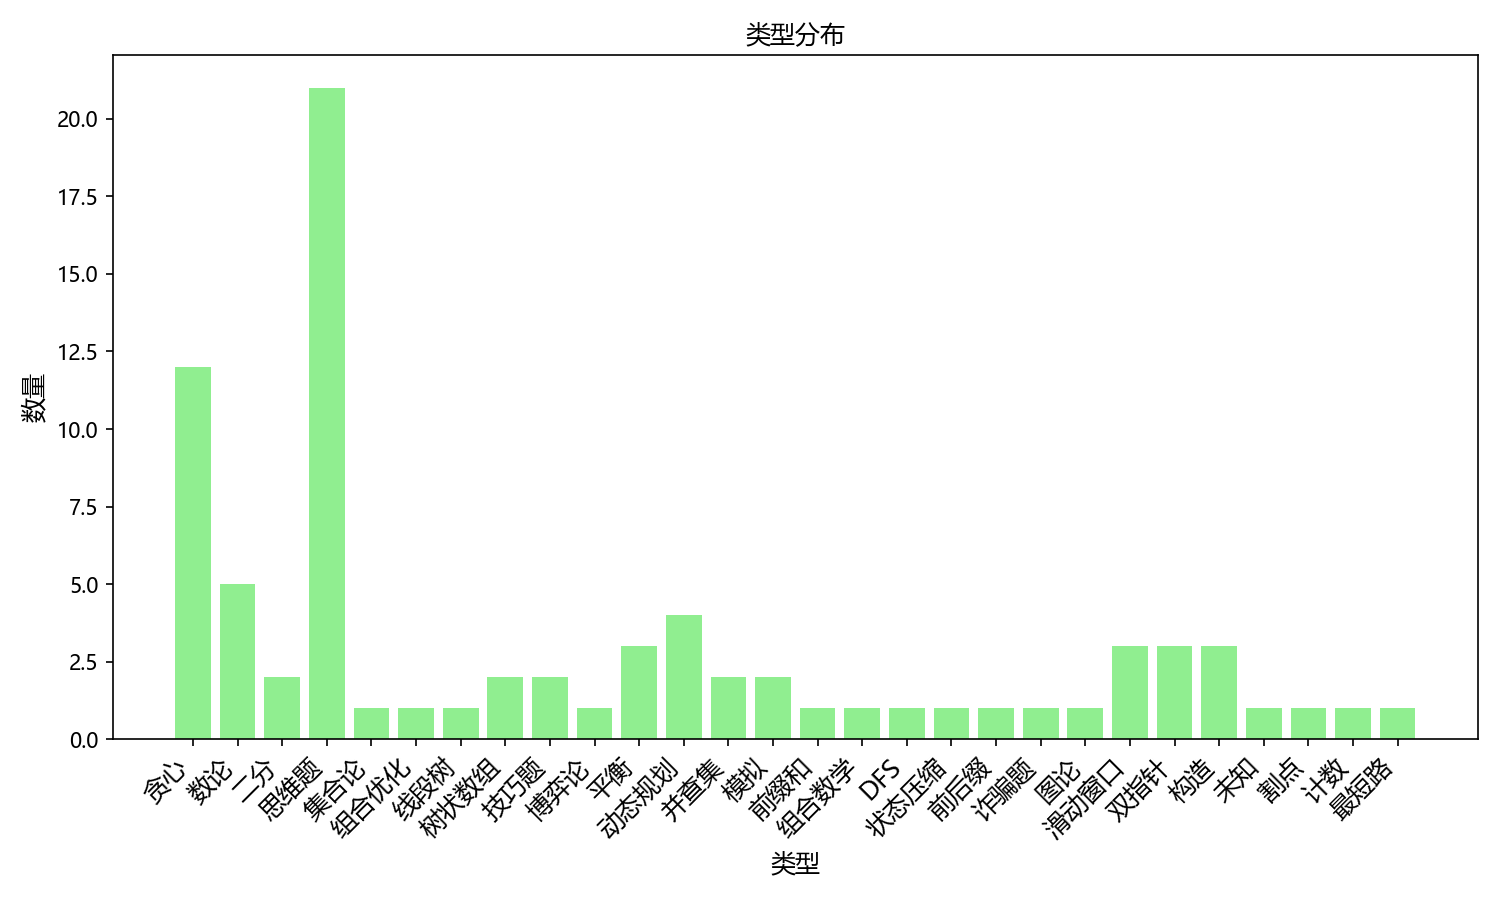
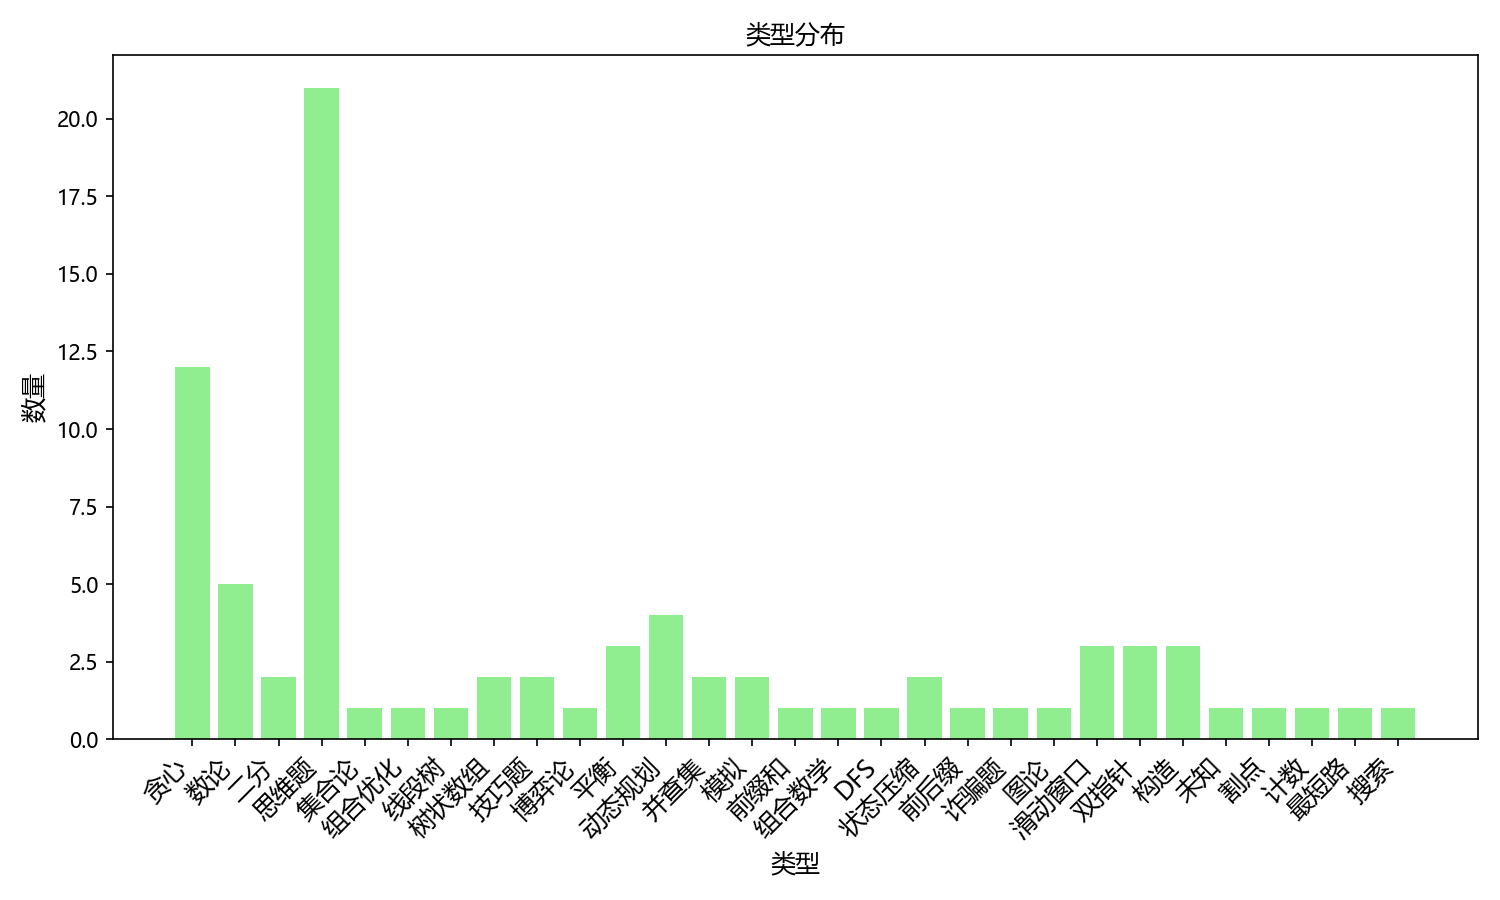
d

Changed region(s): [[0.1227, 0.0933, 0.9507, 0.9333]]

diff --git a/刷题模块/牛客/跨年娱乐赛/div3_{搜索;状态压缩}_牛客_控制灯笼.md b/刷题模块/牛客/跨年娱乐赛/div3_{搜索;状态压缩}_牛客_控制灯笼.md
@@ -1,0 +1,1 @@
+[JNMC孙国庆]
